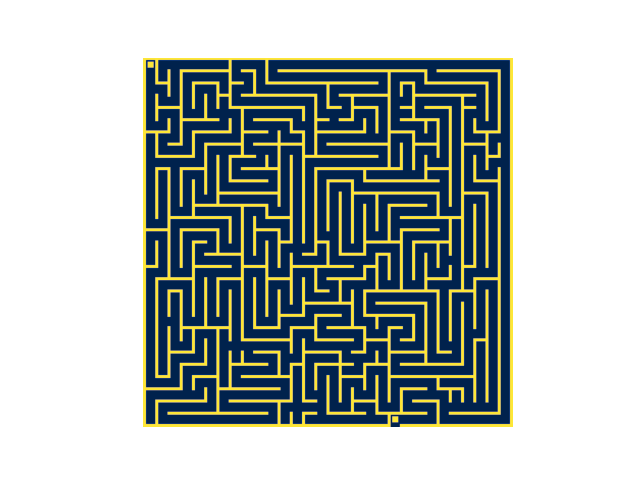
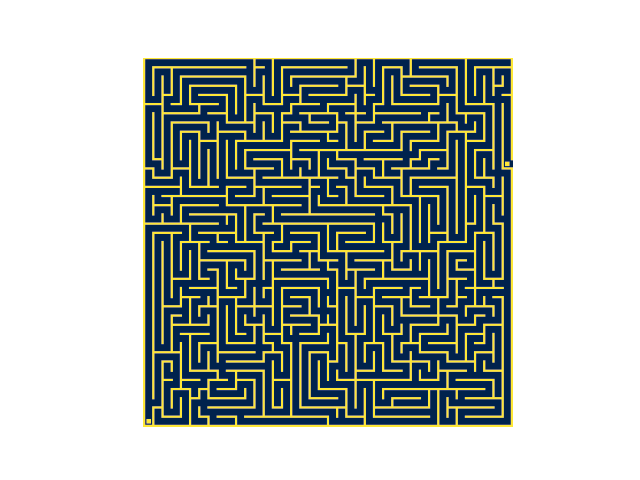
minor change in name of func. Done.

Changed region(s): [[0.2188, 0.125, 0.8125, 0.9062]]

diff --git a/maze.py b/maze.py
@@ -432,7 +432,7 @@ class GridGraphMaze:
                 self.unvisited_nodes_ls.remove(self.grid[i - 1][j])
                 self.next_node = self.grid[i - 1][j]
 
-    def choose_random_number_of_neighbors(self, node):
+    def choose_next_neighbor(self, node):
         """
         1. Marks dead end and end node in node.neighbors.
         2. Finds accessible (unvisited) neighbor nodes
@@ -540,7 +540,7 @@ class GridGraphMaze:
                 # if meet deadend/fin but there's still unvisited nodes in grid,
                 # choose a new node from visited nodes to find node with unchosen accessible neighbor
                 # choose random number of unvisited neighbors
-                self.choose_random_number_of_neighbors(node)
+                self.choose_next_neighbor(node)
                 self.set_node_as_parent_of_neighbors(node)
 
                 # if meet deadend/end before meeting expected length
@@ -563,7 +563,7 @@ class GridGraphMaze:
                 self.nodes_put_on_hold_ls.remove(node)
 
                 # choose random number of unvisited neighbors
-                self.choose_random_number_of_neighbors(node)
+                self.choose_next_neighbor(node)
                 self.set_node_as_parent_of_neighbors(node)
                 path_counter += 1
 
@@ -1054,7 +1054,7 @@ class GridGraphMaze:
 
 if __name__ == "__main__":
     # random.seed(36)
-    grid_length = 30
+    grid_length = 40
     if grid_length < 2:
         print("Error: Choose maze size bigger than 2!")
         exit()
@@ -1067,7 +1067,7 @@ if __name__ == "__main__":
     st_i, st_j = grid_graph.start_coord
     st_node = grid_graph.grid[st_i][st_j]
 
-    length_of_path = 20
+    length_of_path = 5
     if length_of_path < 3:
         print("Error: Choose longer path length!")
         exit()
